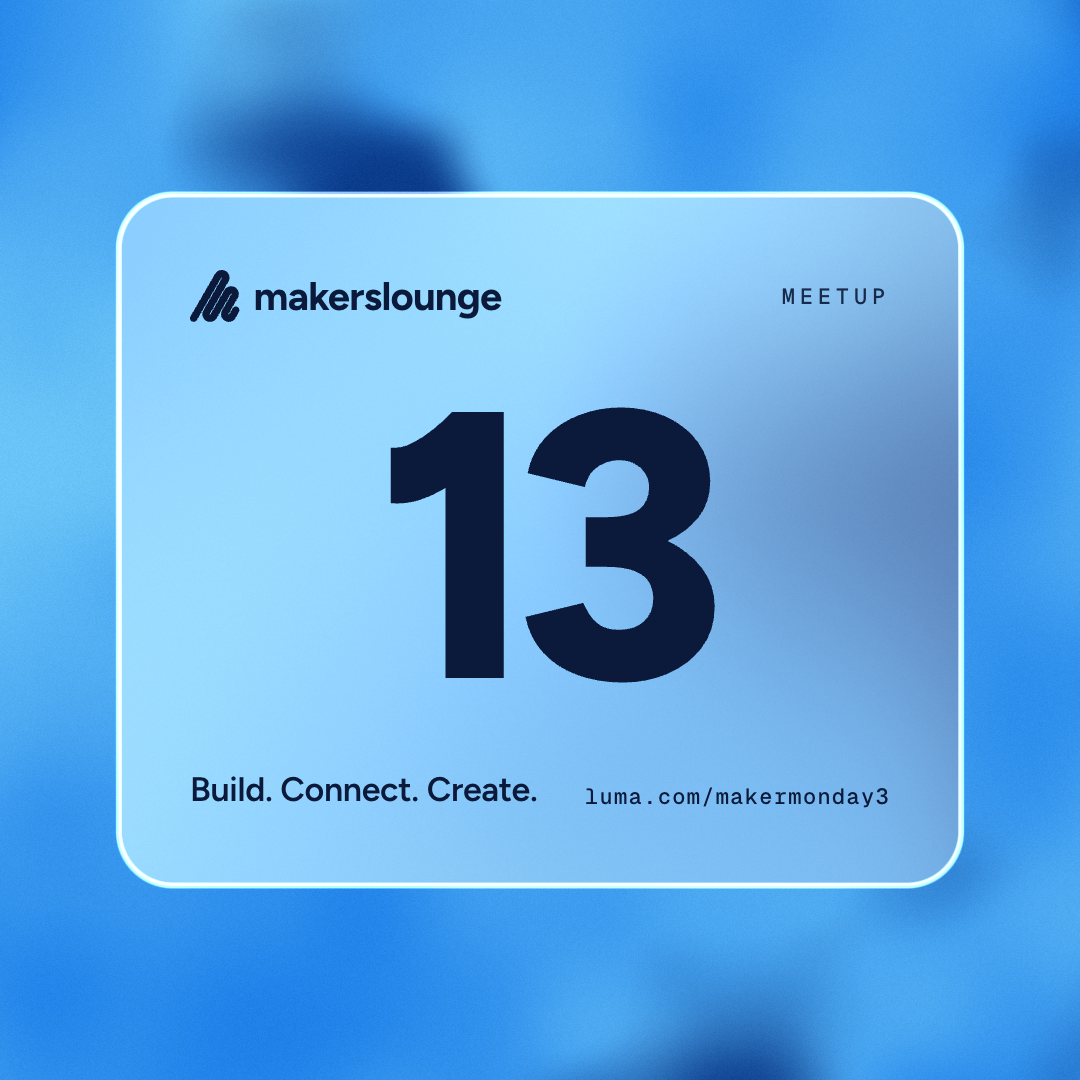
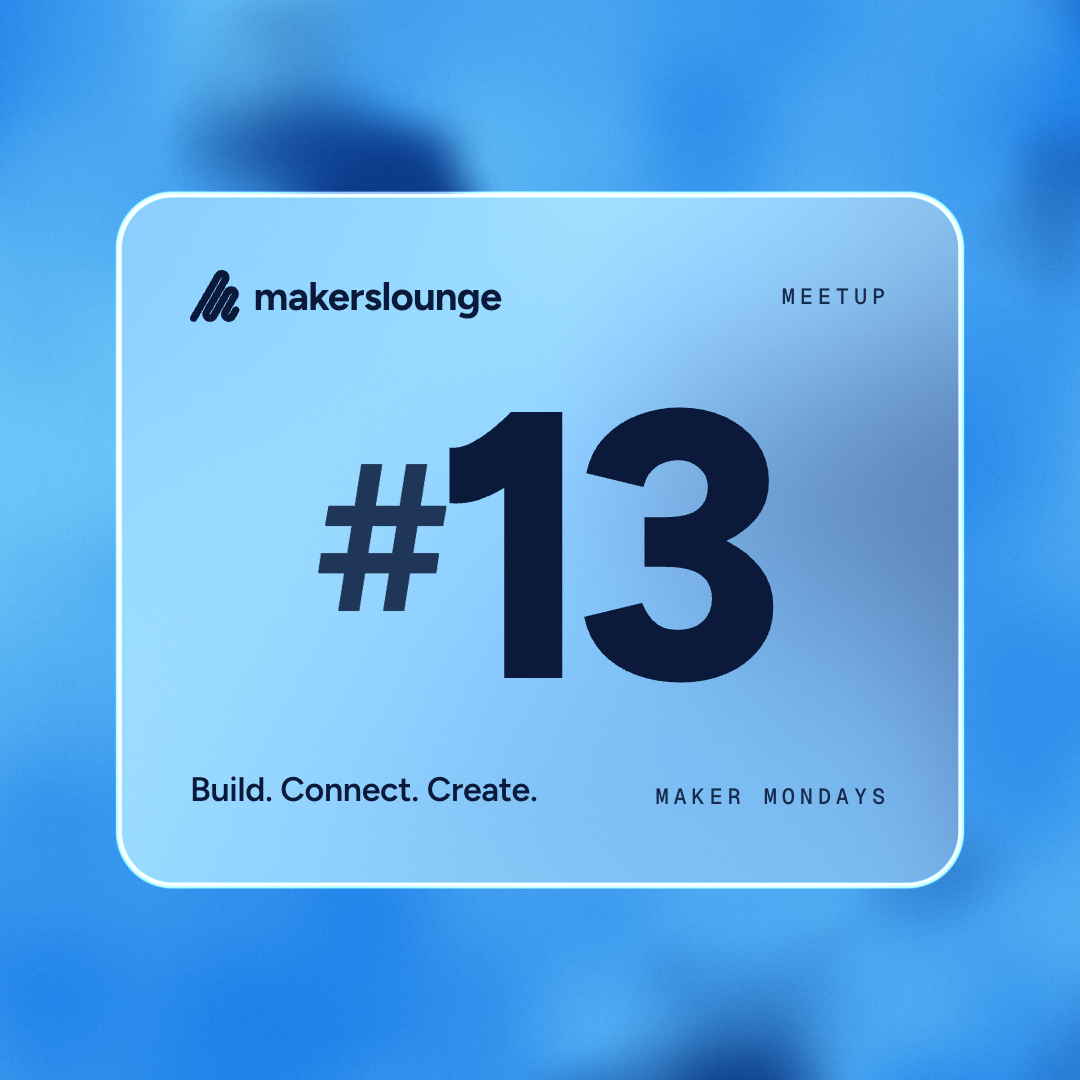
chore(branding): frosted card cover reads "#13", Luma link removed
Claude-Session: https://claude.ai/code/session_01D2fdDttzBkfPEHwoFXt5bM

Changed region(s): [[0.275, 0.3667, 0.7333, 0.6417], [0.55, 0.7333, 0.825, 0.7639]]

diff --git a/branding/luma-covers/meetup-13/README.md b/branding/luma-covers/meetup-13/README.md
@@ -2,12 +2,4 @@
 
 Generated by `scripts/luma-cover/` (vgpu backdrops + Figtree type). Stills are 1080x1080 PNG, loops are 640px GIFs at 18 fps.
 
-- **Halftone sun** (`01-halftone-sun`) — The site's own hero motif: a flat blue disc whose rim breathes, halftone dots thickening toward the edge.
-- **Liquid glass** (`02-liquid-glass`) — Metaballs read as thick glass: the backdrop refracts through them, with a Fresnel rim and a hard specular.
-- **Aurora** (`03-aurora`) — Three bands of light drift across a deep ink ground, like the string lights over the long table.
-- **Chrome ripple** (`04-chrome-ripple`) — A ripple lit like brushed metal: rings expand from the centre with diffuse and specular shading.
-- **LED board** (`05-led-board`) — A dot-matrix board on black. A wave rolls out from the centre and single pixels twinkle over it.
-- **Paper cut** (`06-paper-cut`) — The flat editorial motif straight from the site: hard-edged arcs and blocks in ink, sand and blue, sparkles turning.
 - **Frosted card** (`07-frosted-card`) — Fluid colour outside, the same field seen through a frosted glass card in the middle where the type sits.
-- **Spotlight** (`08-spotlight`) — A stage: one cone of light from above through drifting dust, a glow where the mark sits, a glint on the floor.
-- **Brand gradient** (`09-brand-gradient`) — Closest to the covers so far: the brand blue gradient, with a slow light sweep and film grain.
